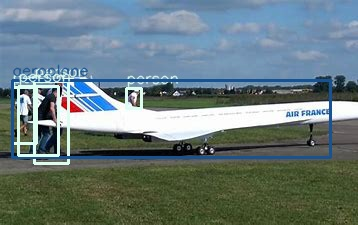
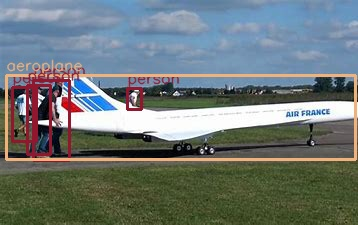
Remove commented out lines

Changed region(s): [[0.0, 0.2489, 1.0, 0.7467]]

diff --git a/test.py b/test.py
@@ -19,8 +19,6 @@ def test(fasterrcnn_model):
     fasterrcnn_model.eval()  # Set to eval mode for validation
     step = 0
     tot_MAP = 0
-    tot_overlaps = 0
-    tot_overlaps_cnt = 0
     for id, batch in enumerate(test_dataloader):
         _, X, img, img_file, y = batch
         step += 1
@@ -49,12 +47,9 @@ def test(fasterrcnn_model):
         # now compare the predictions with the ground truth values in the targets
 
         MAP, precisions, recalls, overlaps = compute_ap(predictions, targets)
-        # print(f"map: {MAP}, precisions: {precisions}, recalls: {recalls}, overlaps: {overlaps}")
         tot_MAP += MAP
         output_annotated_images(predictions, img, img_file)
         output_stats_for_images(MAP, precisions, recalls, overlaps, img_file)
-        #tot_overlaps += torch.sum(overlaps)
-        #tot_overlaps_cnt += len(overlaps[0])
 
     ave_MAP = tot_MAP / step
     print(f"Average MAP = {ave_MAP}")

diff --git a/test_individual_image.py b/test_individual_image.py
@@ -1,4 +1,4 @@
-from config import Hyper, Constants
+from config import Hyper, Constants, OutputStore
 from utils import load_checkpoint
 import os
 import cv2
@@ -70,11 +70,16 @@ def get_image(file):
     return t_img, img, path
 
 
-if __name__ == "__main__":
-    # aeroplane_with_persons.jpg
-    # cats_and_dogs.jpg
-    # sofa_dog_person.jpg
-    t_image_, img_, path_ = get_image("sofa_dog_person.jpg")
+def process_images(image_file):
+    t_image_, img_, path_ = get_image(image_file)
     epoch = Hyper.total_epochs
     model = load_checkpoint(epoch)
     individual_image(model, t_image_, img_, path_)
+
+
+if __name__ == "__main__":
+    OutputStore.check_folder(Constants.dir_individual_image)
+    image_files = ["aeroplane_with_persons.jpg", "cats_and_dogs.jpg", "sofa_dog_person.jpg"]
+    for image_file in image_files:
+        process_images(image_file)
+

diff --git a/config.py b/config.py
@@ -5,8 +5,8 @@ class Hyper:
     total_epochs = 50
     learning_rate = 1e-6
     batch_size = 1
-    box_score_thresh = 0.50
-    anchor_size = 512    # default is 256
+    box_score_thresh = 0.75
+    anchor_size = 256    # default is 256
     img_max_size = (512,512)
     pascal_categories = ['__bgr__', 'aeroplane', 'bicycle', 'bird', 'boat', 'bottle', 'bus',  
         'car', 'cat', 'chair', 'cow', 'diningtable', 'dog', 'horse', 'motorbike', 
